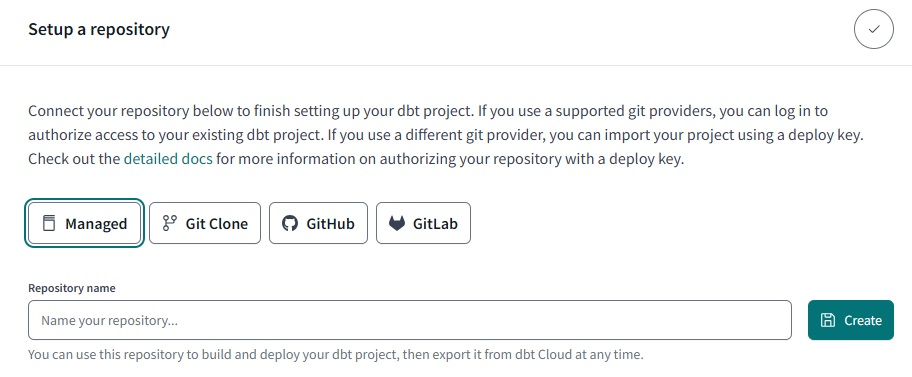
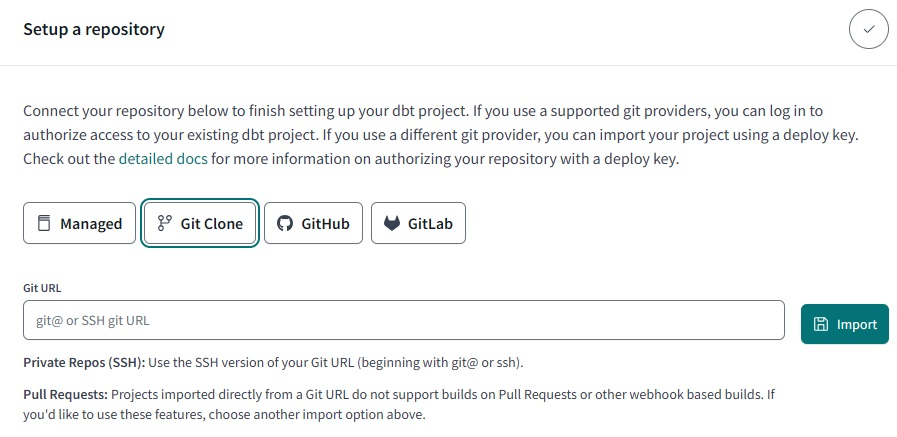
Development of dbt Models: dbt build

diff --git a/4_Analytics-Engineering/README.md b/4_Analytics-Engineering/README.md
@@ -11,6 +11,7 @@
     - [Developing the first model](#developing-the-first-model)
     - [Macros](#macros)
     - [Packages](#packages)
+    - [Building the model](#building-the-model)
 
 
 
@@ -320,71 +321,78 @@ Back on your project setup, select BigQuery:
 
 Click on save
 
+Test the connection and click on save the Development credentials, not necessary to change those values:
+
+ <br>
+
+![ae14](images/ae36.jpg)
+<br><br>
+
+
 Now its time to setup a repository:
  <br>
 
 ![ae15](images/ae15.jpg)
 <br><br>
 
-Select git clone and paste the SSH key from your repo.
+Select git clone and paste the SSH key from your repo:
 
 ![ae16](images/ae16.jpg)
 <br><br>
 
 Click on import --> Click on next
 
-You should look this:
+You will get a deploy key:
+
+ <br>
+
+![ae17](images/ae37.jpg)
+<br><br>
+
+Head to your GH repo and go to the settings tab. You'll find the menu deploy keys. Click on add key and paste the deploy key provided by dbt cloud. Make sure to click on "write access":
+
+ <br>
+
+![ae17](images/ae38.jpg)
+<br><br>
+
+Back on dbt cloud, click on next, you should look this:
+
 
  <br>
 
 ![ae17](images/ae17.jpg)
 <br><br>
 
-You will get a deploy key, head to your GH repo and go to the settings tab. You'll find the menu deploy keys. Click on add key and paste the deploy key provided by dbt cloud. Make sure to click on "write access"
 
 
 Also make sure you informed taxi_rides_ny as the project subdirectory:
+
+On the left sidebar, click on dashboard --> settings --> Edit
+
  <br>
 
 ![ae17](images/ae18.jpg)
 <br><br>
 
-Every dbt project has a certain structure, including folders with specific names and global configurations that define how we work with dbt. To get started, dbt provides a starter project with basic configurations and example models. 
-
-dbt must connect to your repository in  GitHub. Using the CLI, you can run dvt init, which generates the file tree and necessary files. If you're using DVT Cloud, the IDE will guide you through the setup process. Among the folders it creates, you'll find a file called project.yml. This file defines your project's name, connections, storage settings, and global configurations.
-
-**6: dbt build**
 
 
-Open the cloud IDE, create a new branch, click on "Initialize dbt project" and get the result below. Note: it is important to create a new branch, because if we had chosen to work on the master branch we would get stuck in read-only mode.
+**6: Create new branch**
 
- <br>
+On the left sidebar, click on Develop --> Cloud IDE
 
-![ae17](images/ae19.jpg)
-<br><br>
 
-Run this command:
-
-```
-dbt build
-```
-
-Should look like this:
+Create a new branch:
 
  <br>
 
-![ae17](images/ae20.jpg)
+![ae39](images/ae39.jpg)
 <br><br>
 
-When you run dbt build in dbt Cloud, it does the following:
+I will use "dbt" branch. After creating the new branch, you can go to your repo on github and see the new branch created.
 
-- Builds Models: Executes the SQL transformations defined in your project to create or update tables and views in your target data warehouse.
+Note: it is important to create a new branch, because if we had chosen to work on the master branch we would get stuck in read-only mode.
 
-- Runs Tests: Validates data quality by executing both custom tests (defined in .yml files) and standard tests (like unique or not null constraints).
-
-- Updates Snapshots: Captures historical changes in your source data for versioning and time-based analytics.
-
-- Loads Seeds: Loads any seed files (like .csv files) defined in your project into the target data warehouse.
 
 
 ## Development of dbt Models
@@ -830,7 +838,55 @@ Once compiled, you can view the resulting SQL code under the target/compiled fol
 
 This folder contains the exact SQL generated for your database, which is useful for debugging or understanding how the macros work.
 
+### Building the model
+
+**1: schema.yml values**
+
+Open VS Code, go to taxi_rides_ny --> models --> staging --> schema.yml
+
+Make sure that project id, dataset name and tables matches your project id, dataset and tables name in BigQuery!
+
+```yaml
+
+sources:
+  - name: staging
+    database: zoomcamp-airflow-444903 # project id
+    schema: zoomcamp # dataset name
+     
+    tables:
+      - name: green_tripdata #table name
+      - name: yellow_tripdata #table name
+```
+
+**2: dbt build**
+
+In the dbt cloud console, run:
+
+```
+dbt build
+```
+
+You should look something like this:
+ <br>
+
+![ae31](images/ae20.jpg)
+<br><br>
+
+ <br>
+
 After running the model (dbt build), the process should complete successfully, creating a view. You can check the view details to confirm the output, including the trip_id and other data fields. You can also examine the compiled SQL in the target/compiled folder for additional troubleshooting.
+
+When you run dbt build in dbt Cloud, it does the following:
+
+- Builds Models: Executes the SQL transformations defined in your project to create or update tables and views in your target data warehouse.
+
+- Runs Tests: Validates data quality by executing both custom tests (defined in .yml files) and standard tests (like unique or not null constraints).
+
+- Updates Snapshots: Captures historical changes in your source data for versioning and time-based analytics.
+
+- Loads Seeds: Loads any seed files (like .csv files) defined in your project into the target data warehouse.
+
+**3: check BigQuery**
 
 Head over to BigQuery and check the views that dbt generated:
 
